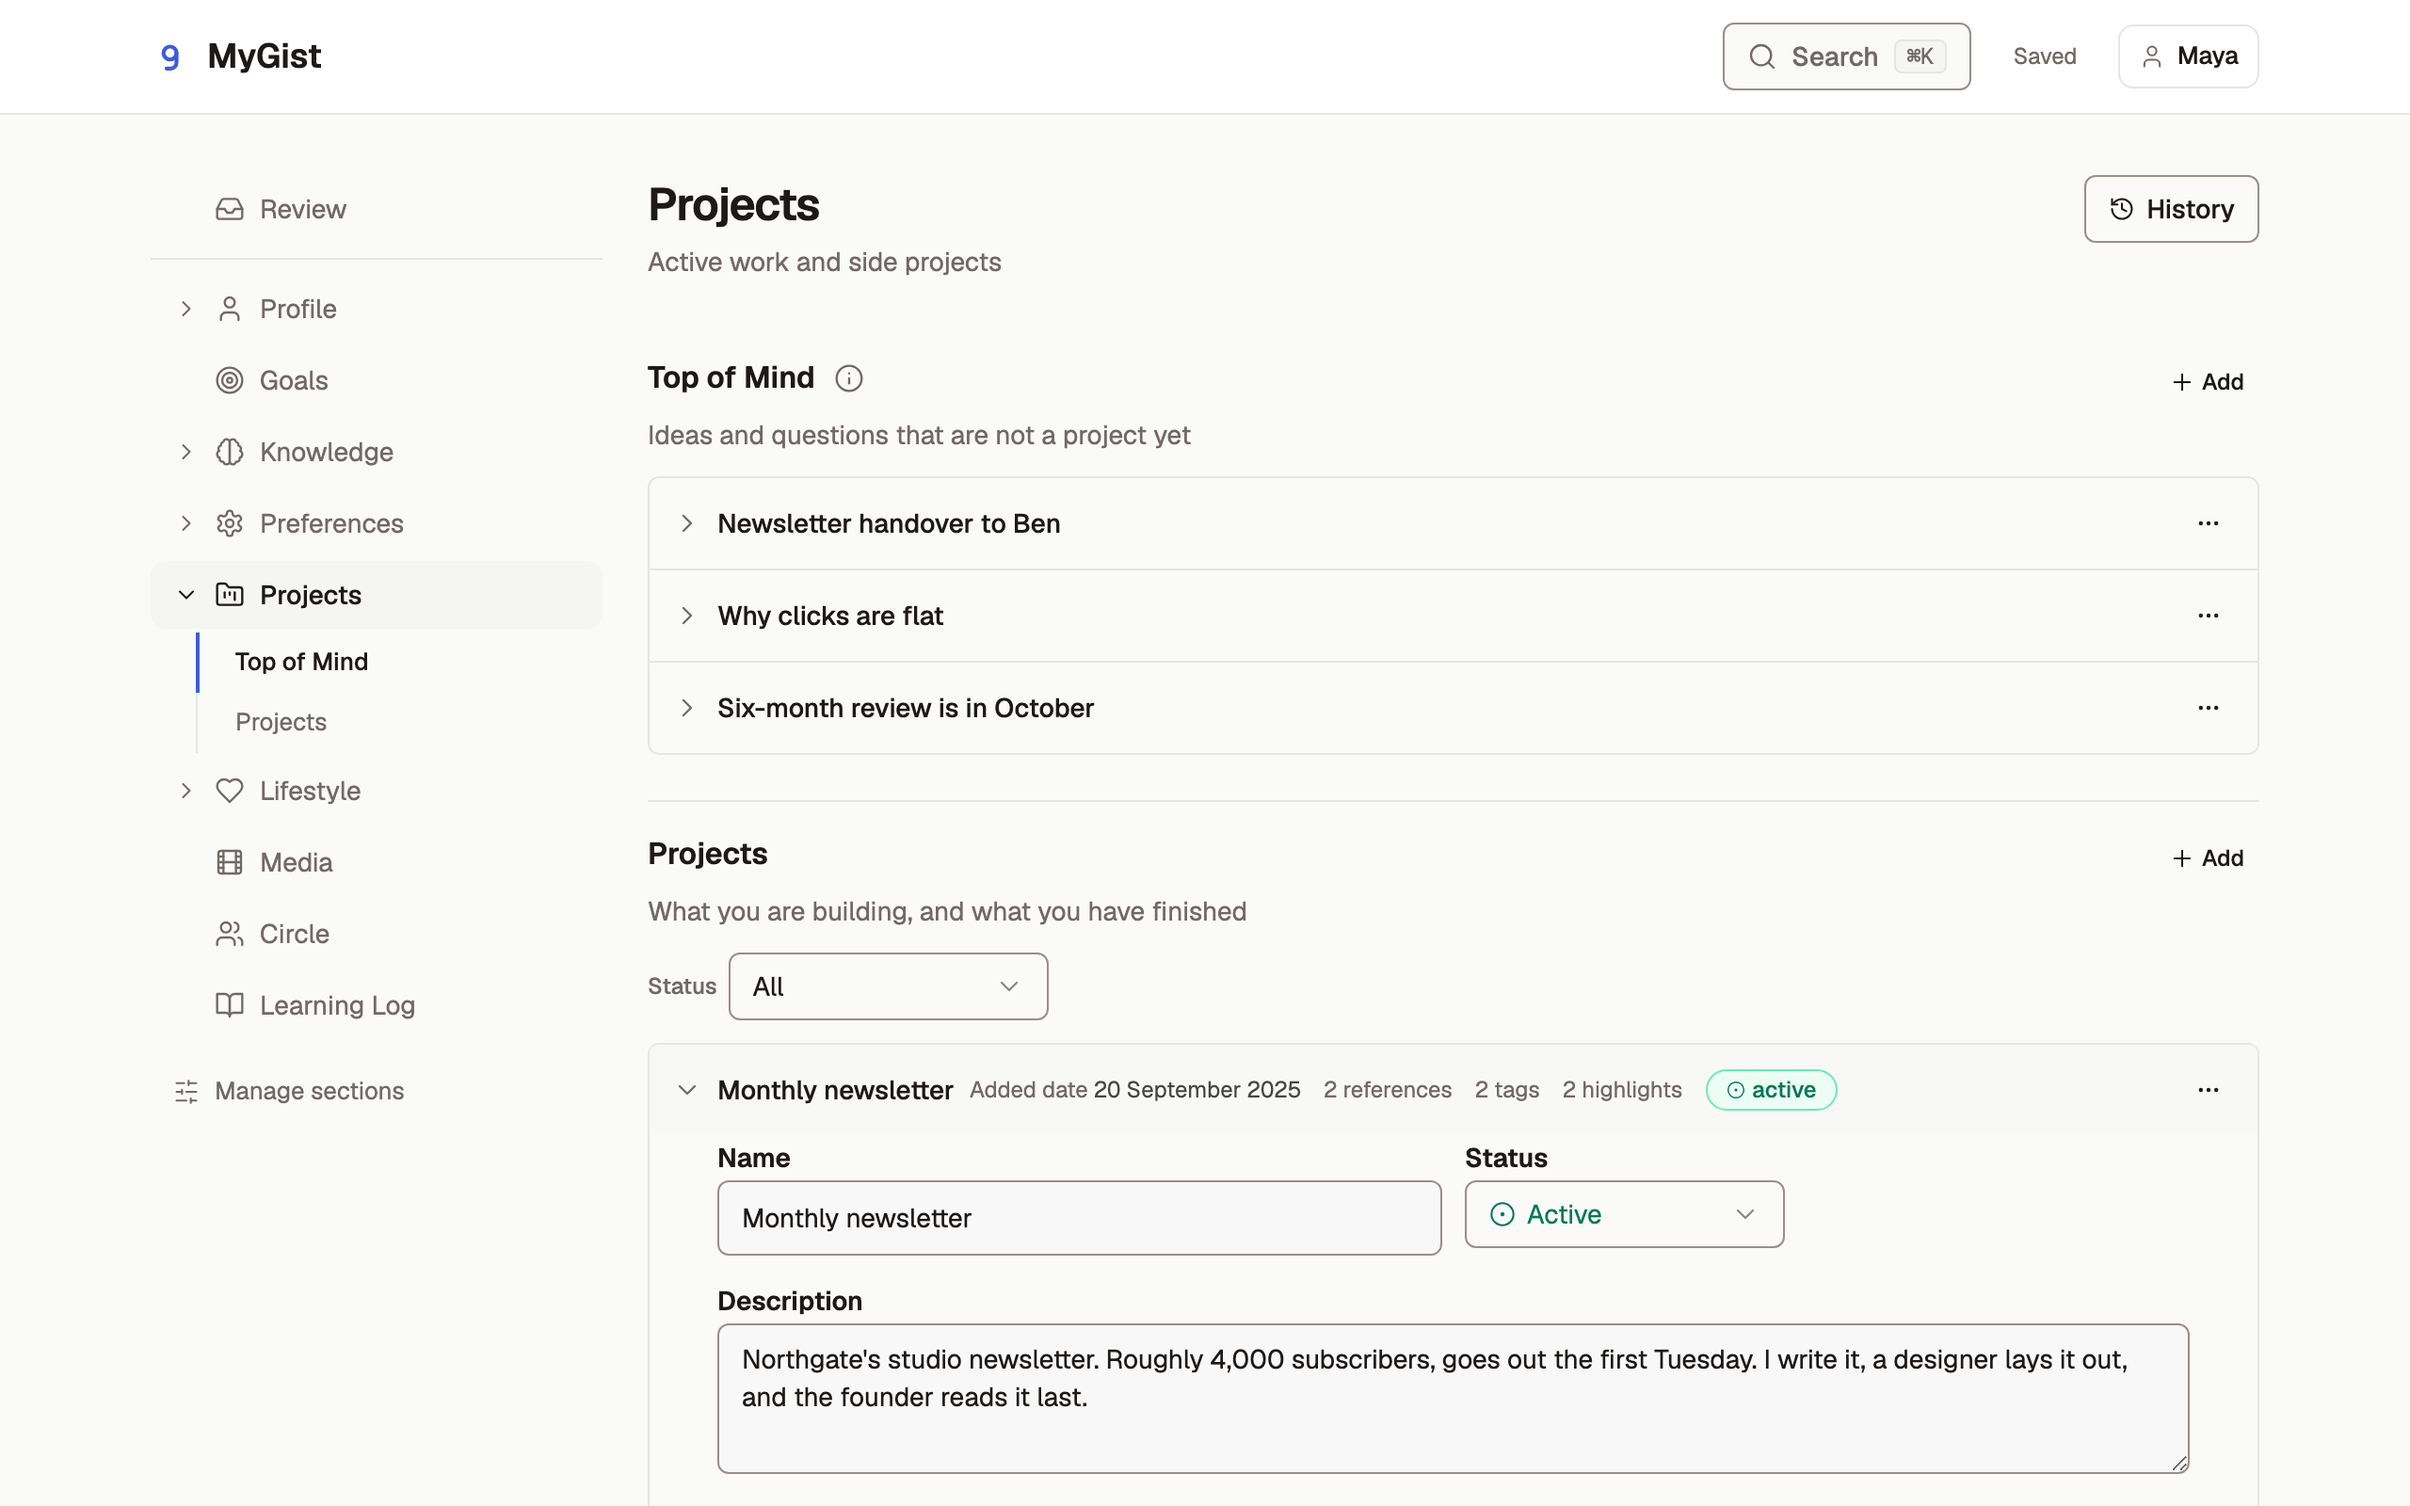
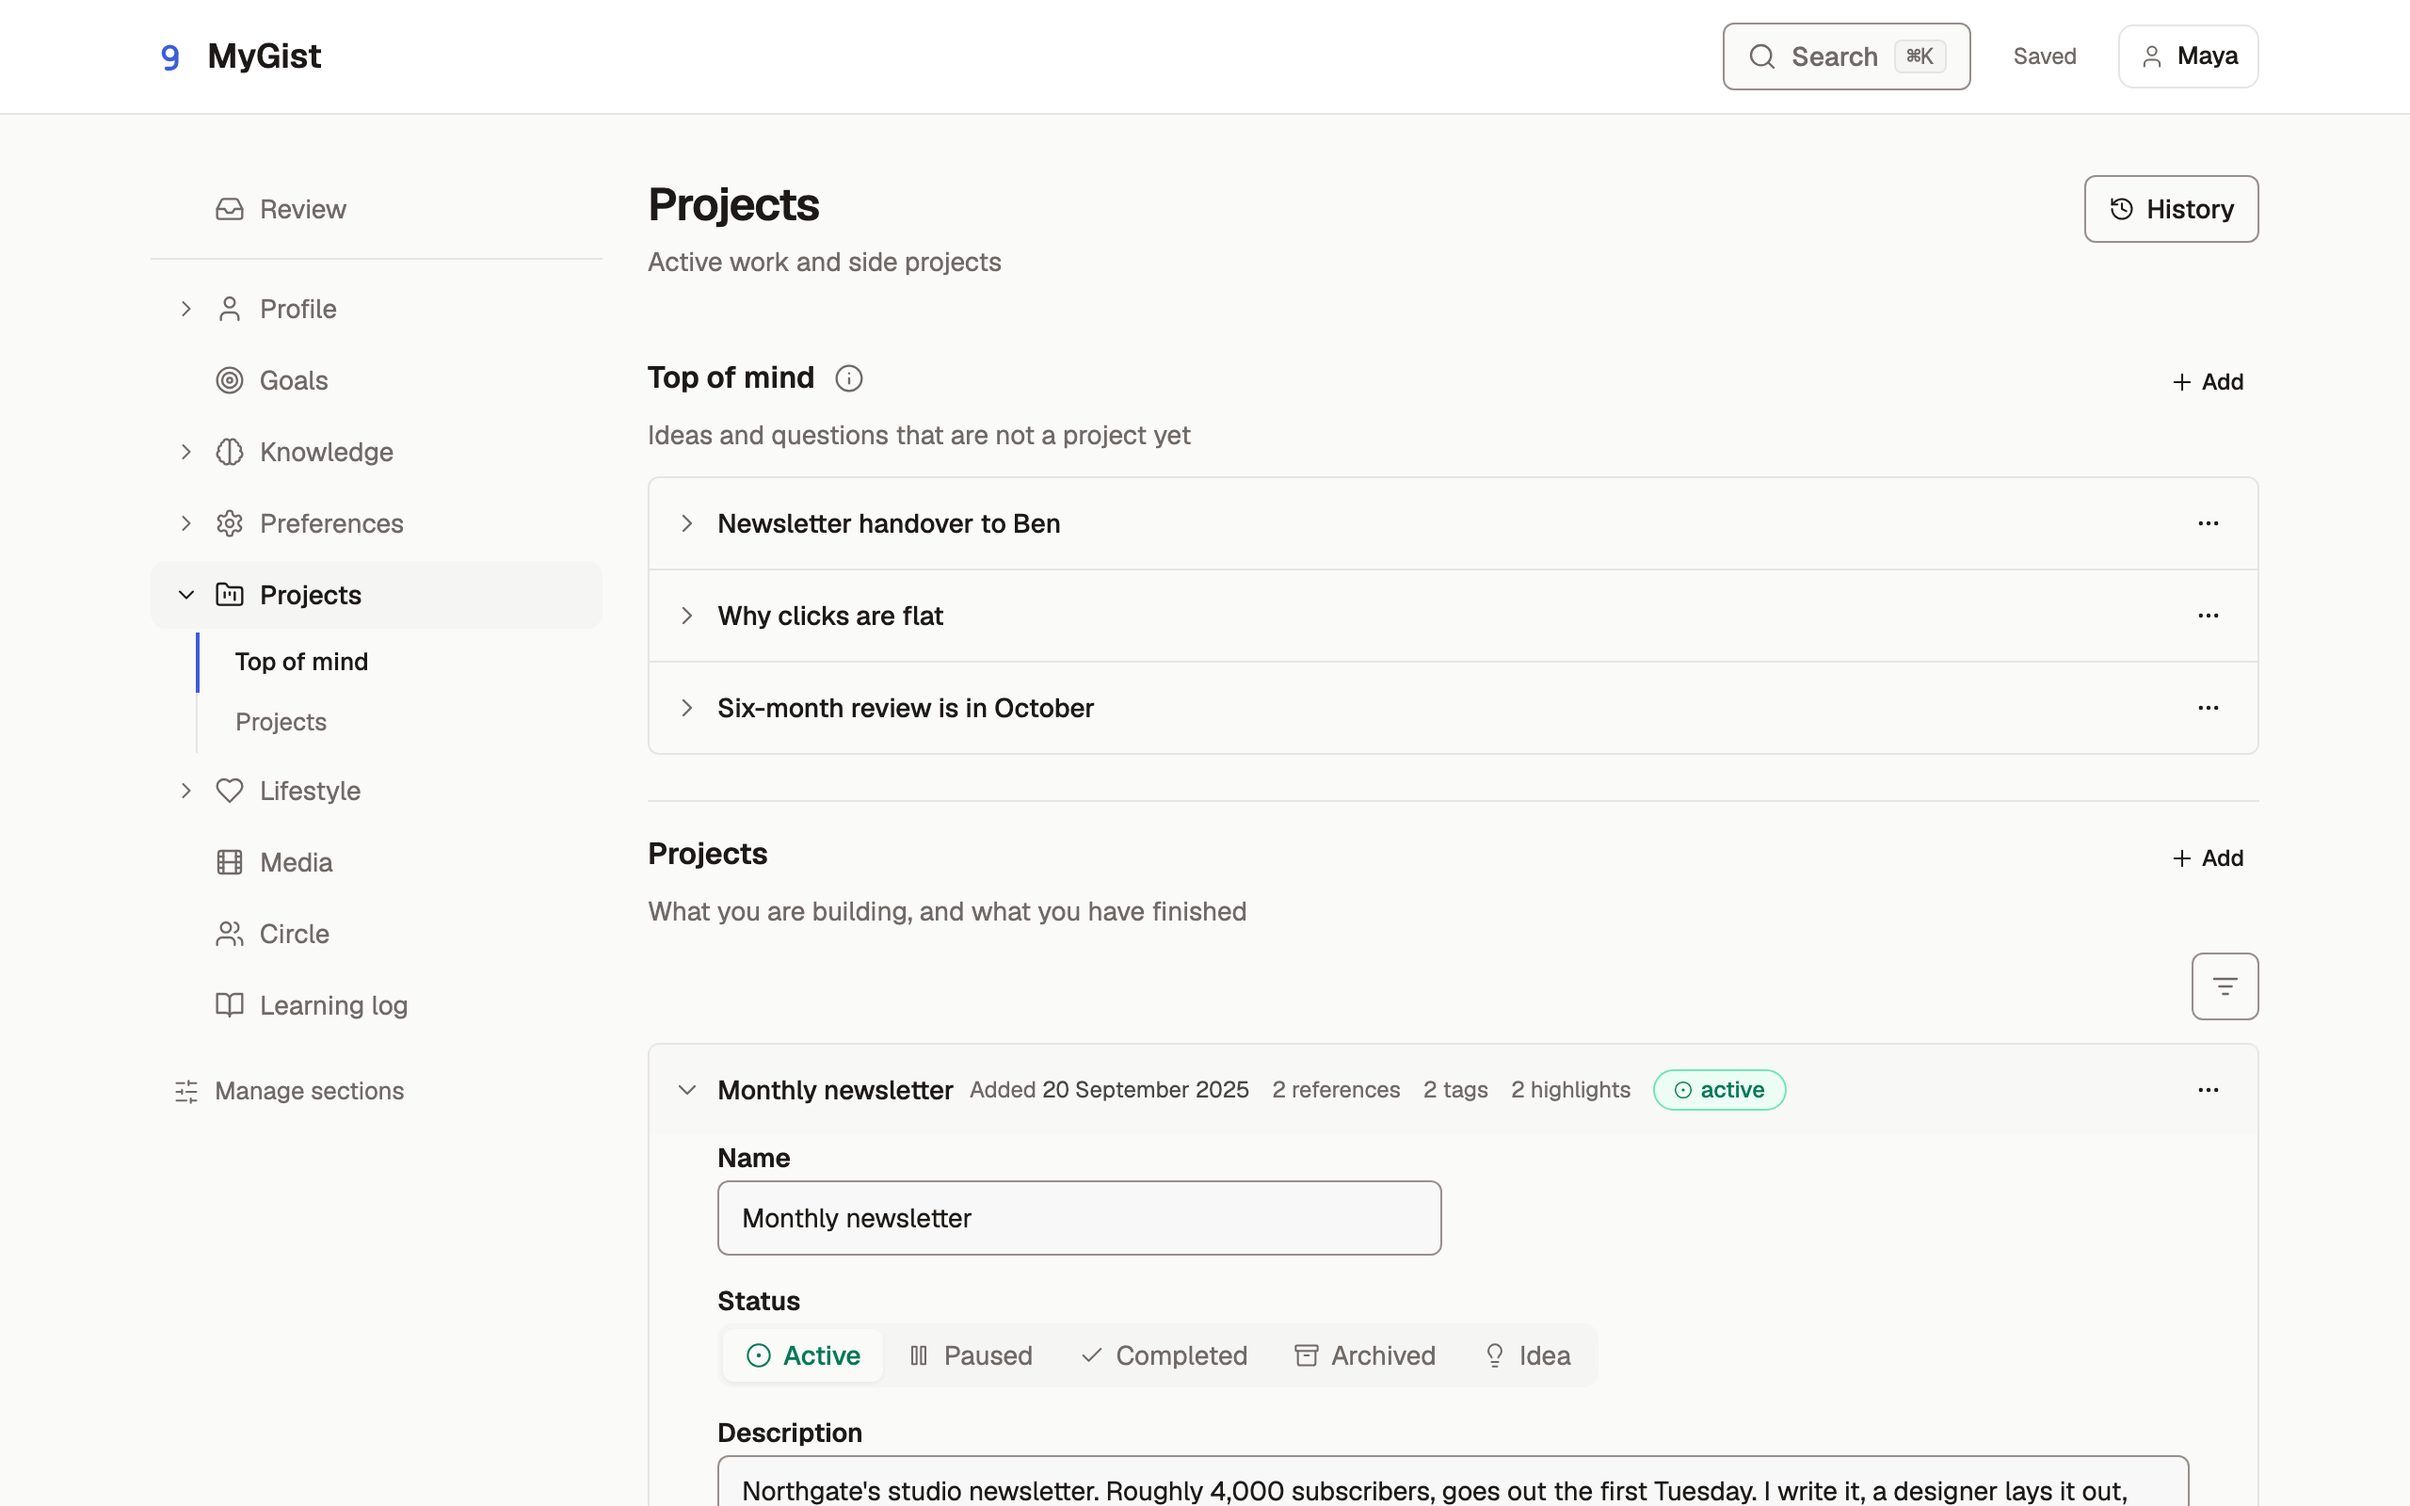
docs: 0.2.4 screenshots, Review shots, and the version convention
The ten app screenshots are retaken for 0.2.4: sentence-case headings, the
filter icon, one date format ("not used yet" on an unused token). Two new
ones show Review, the Inbox and Promote with a suggested type and its fields
filled, and sit in the Inbox and Observations sections.

Development gains Versions: 0.MINOR.PATCH, the patch for an ordinary release
and the minor for one that changes what a self-hoster or client must do; the
two places a release sets it; and the changelog's mapping for older numbers.

diff --git a/docs-site/public/screenshots/README.md b/docs-site/public/screenshots/README.md
@@ -26,6 +26,8 @@ desktop views.
 | `settings-tokens.png` | Settings → Connections: connected apps, the token list and the create form |
 | `settings-tokens-new.png` | The one look at a new token's secret (revoked straight after) |
 | `settings-data.png` | Settings → Data: export, import mode, import, Advanced |
+| `review-inbox.png` | Review → Inbox with three suggestions (stand-ins, deleted after) |
+| `review-promote.png` | Promote on an observation, the suggested type chosen and its fields filled, on an instance with a TypeSafe key |
 
 ## The conversation figures
 
